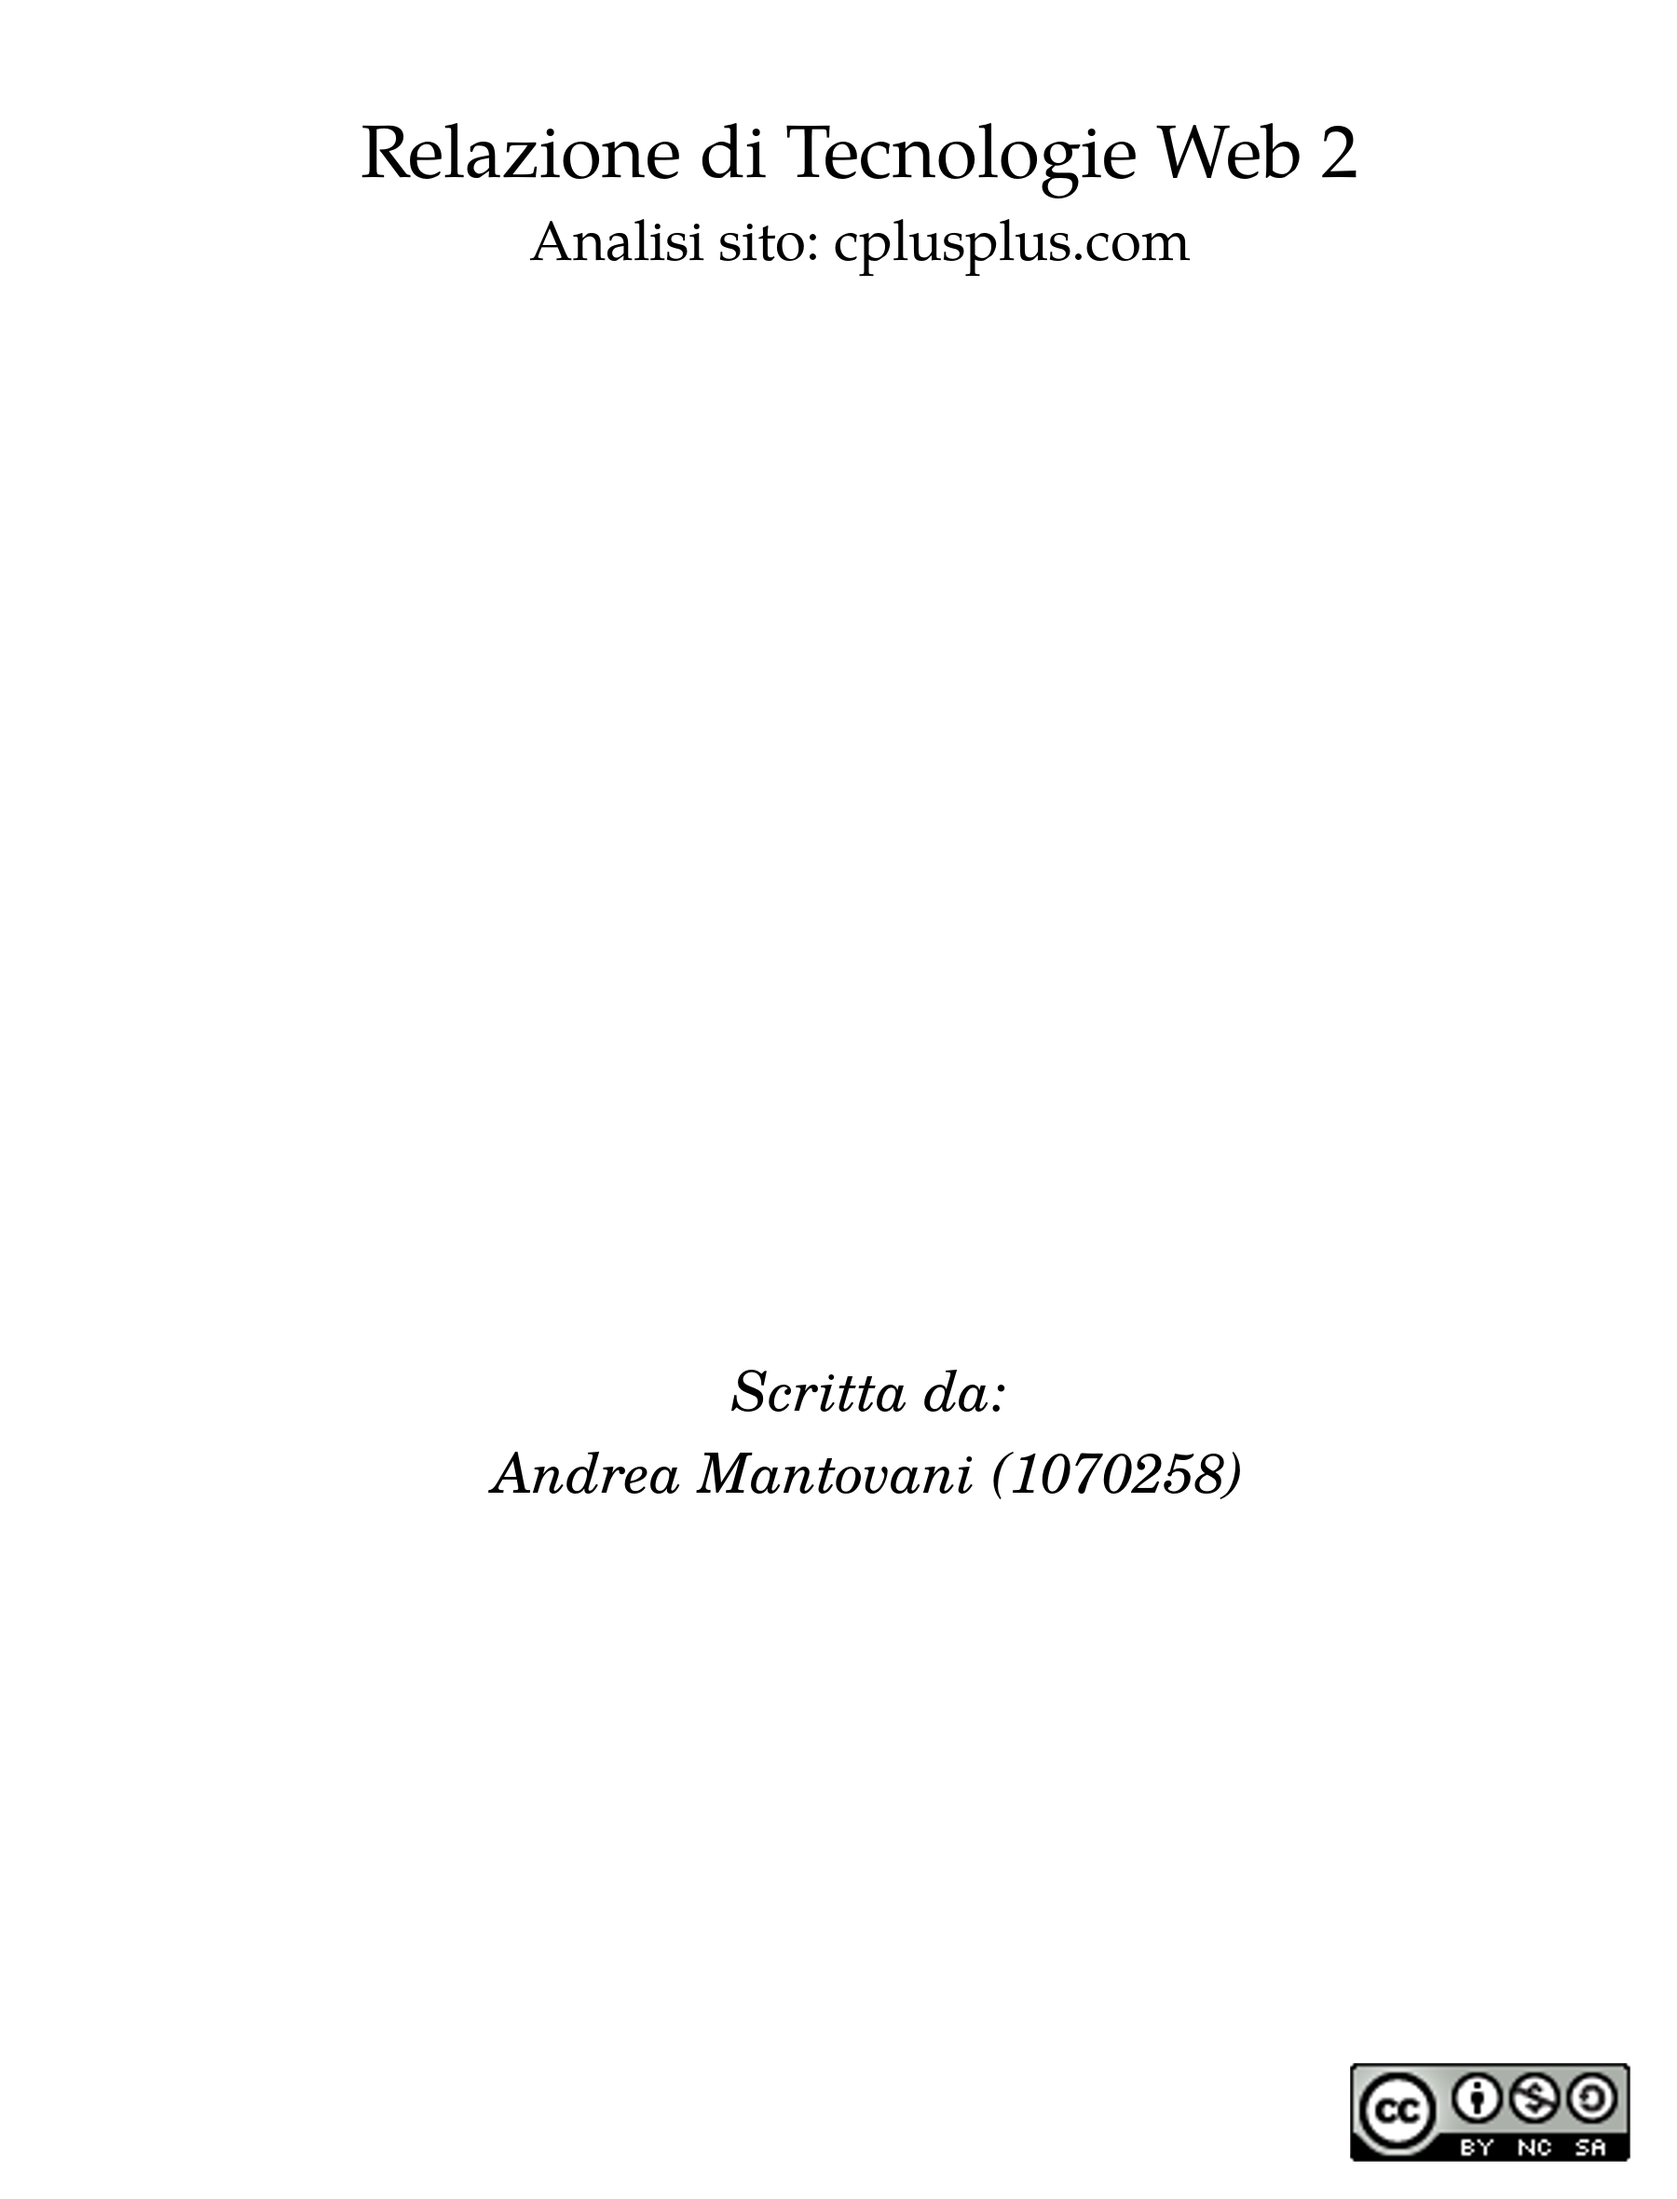
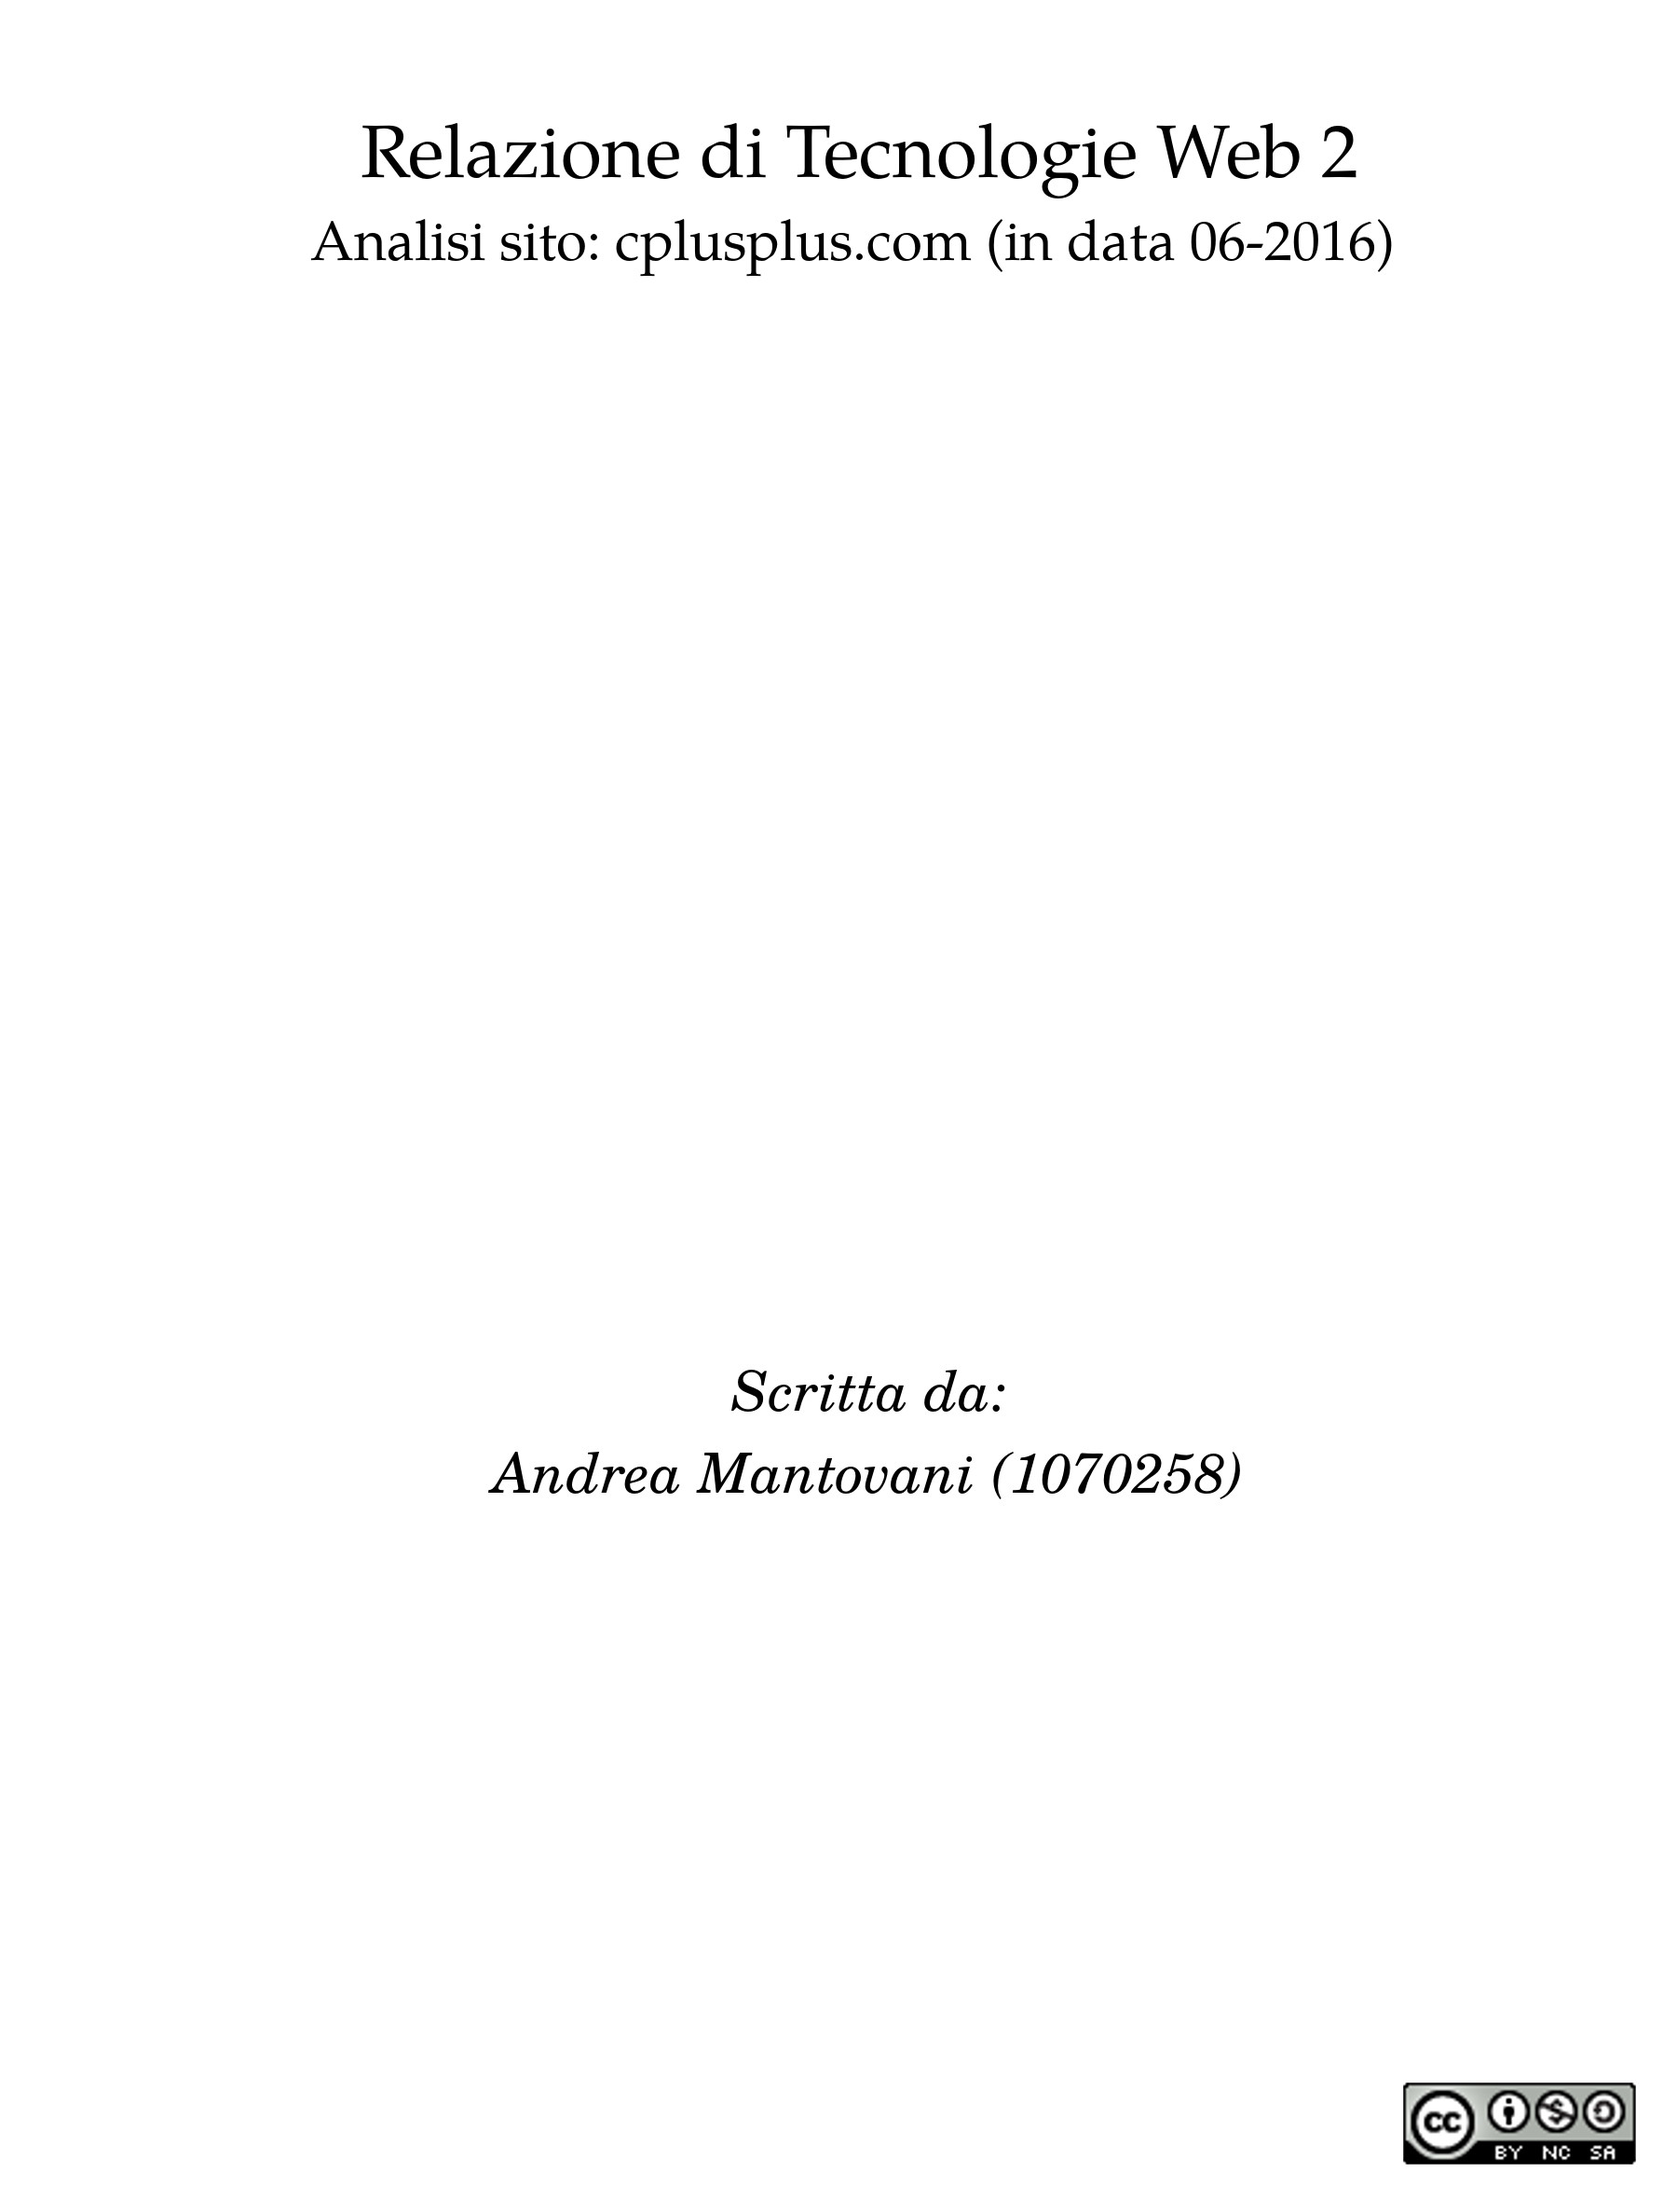
Write date anylises

Changed region(s): [[0.1867, 0.0928, 0.84, 0.1237], [0.8089, 0.928, 0.9956, 0.9898]]

diff --git a/README.md b/README.md
@@ -1,7 +1,7 @@
 # Introduzione
 Questo documento ha lo scopo di riportare l'analisi compiuta sul sito
-[cplusplus.com](http://www.cplusplus.com/) condotta dallo studente *Andrea 
-Mantovani*.
+[cplusplus.com](http://www.cplusplus.com/), in data 06-2016, condotta dallo
+studente *Andrea Mantovani*.
 
 In questa sezione esporrò un breve riassunto dei servizi offerti da 
 **cpluscplus.com**, la tipologia dei visitatori ed i punti dove andrò a 
